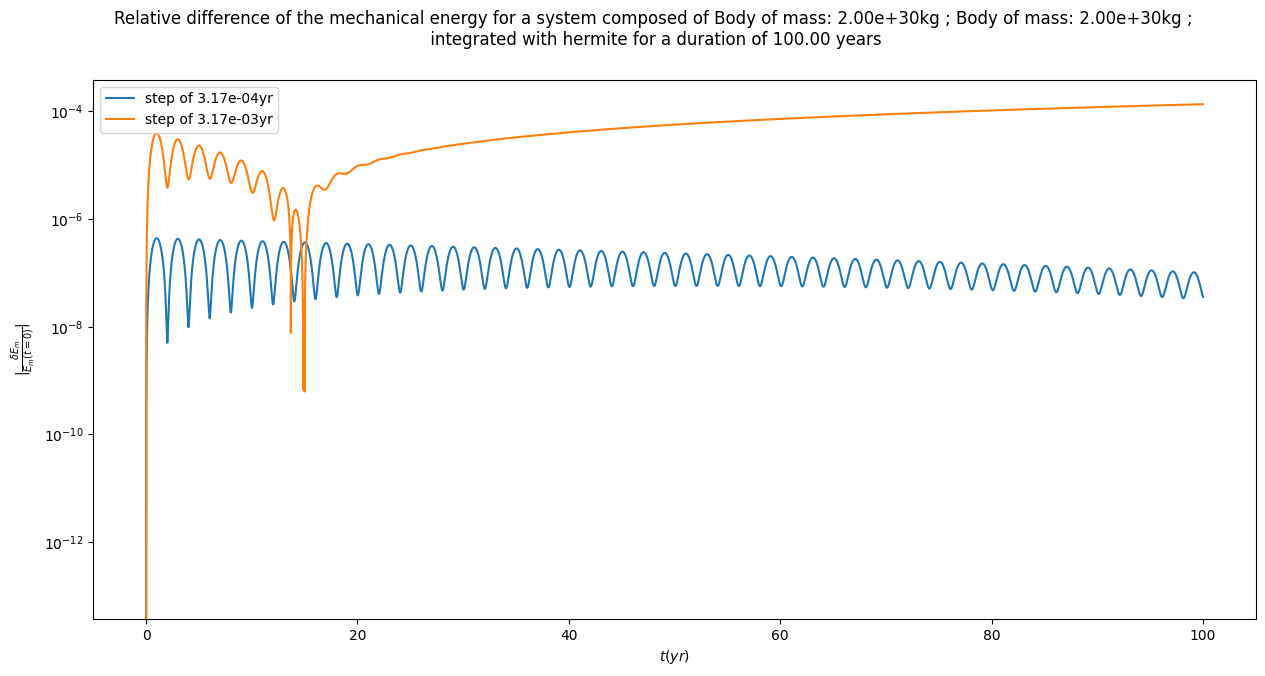
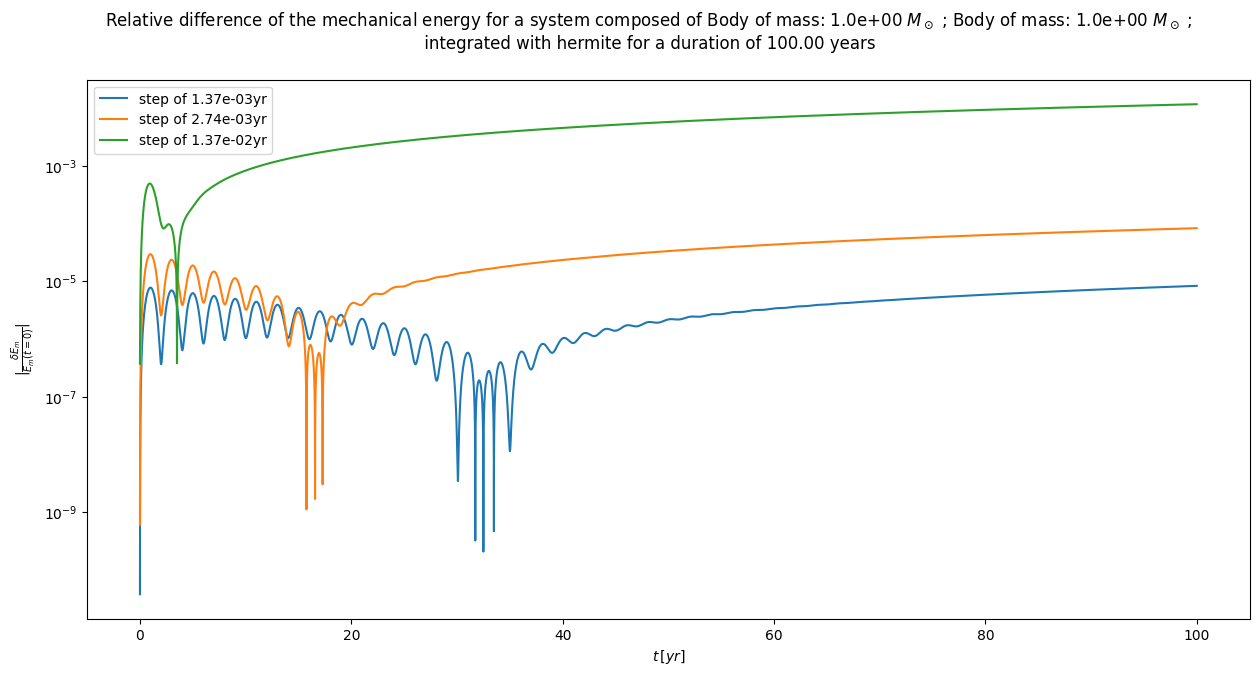
debugg hermite and force use of longdouble type

diff --git a/lib/hermite.py b/lib/hermite.py
@@ -13,23 +13,23 @@ from lib.units import *
 
 def Update_a(dyn_syst):  # update acceleration of bodies in system
     for body in dyn_syst.bodylist:
-        body.a = np.zeros(3)
+        body.a = np.zeros(3,dtype=np.longdouble)
         for otherbody in dyn_syst.bodylist:
             if body != otherbody:
                 rij = np.linalg.norm(body.q - otherbody.q)
-                body.a = body.a - (body.q - otherbody.q) * G * otherbody.m / (rij ** 3)
+                body.a = body.a - (body.q - otherbody.q) * Ga * otherbody.m / (rij ** 3)
 
 
 def Update_j(dyn_syst):  # update jerk of bodies in system
     for body in dyn_syst.bodylist:
-        body.j = np.zeros(3)
+        body.j = np.zeros(3,dtype=np.longdouble)
         for otherbody in dyn_syst.bodylist:
             if body != otherbody:
                 rij = np.linalg.norm(body.q - otherbody.q)
                 deltav = (body.v - otherbody.v)
                 deltar = (body.q - otherbody.q)
                 vr = deltav + 3. * deltar * np.inner(deltav, deltar) / (rij ** 2)
-                body.j = body.j - G * otherbody.m / (rij ** 3) * vr
+                body.j = body.j - Ga * otherbody.m / (rij ** 3) * vr
 
 
 def Predict(dyn_syst, dt):  # update predicted position and velocities of bodies in system
@@ -40,23 +40,23 @@ def Predict(dyn_syst, dt):  # update predicted position and velocities of bodies
 
 def Update_ap(dyn_syst):  # update acceleration of bodies in system
     for body in dyn_syst.bodylist:
-        body.ap = np.zeros(3)
+        body.ap = np.zeros(3,dtype=np.longdouble)
         for otherbody in dyn_syst.bodylist:
             if body != otherbody:
                 rij = np.linalg.norm(body.qp - otherbody.qp)
-                body.ap = body.ap - (body.qp - otherbody.qp) * G * otherbody.m / (rij ** 3)
+                body.ap = body.ap - (body.qp - otherbody.qp) * Ga * otherbody.m / (rij ** 3)
 
 
 def Update_jp(dyn_syst):  # update jerk of bodies in system
     for body in dyn_syst.bodylist:
-        body.jp = np.zeros(3)
+        body.jp = np.zeros(3,dtype=np.longdouble)
         for otherbody in dyn_syst.bodylist:
             if body != otherbody:
                 rij = np.linalg.norm(body.qp - otherbody.qp)
                 deltav = (body.vp - otherbody.vp)
                 deltar = (body.qp - otherbody.qp)
                 vr = deltav + 3. * deltar * np.inner(deltav, deltar) / (rij ** 2)
-                body.jp = body.jp - G * otherbody.m / (rij ** 3) * vr
+                body.jp = body.jp - Ga * otherbody.m / (rij ** 3) * vr
 
 
 def Correct(dyn_syst, dt):  # correct position and velocities of bodies in system
@@ -69,7 +69,7 @@ def Correct(dyn_syst, dt):  # correct position and velocities of bodies in syste
 
 
 def HPC(dyn_syst, dt):  # update position and velocities of bodies in system with hermite predictor corrector
-    COMShift(dyn_syst)
+    dyn_syst.COMShift()
     Update_a(dyn_syst)
     Update_j(dyn_syst)
     Predict(dyn_syst, dt)
@@ -79,7 +79,7 @@ def HPC(dyn_syst, dt):  # update position and velocities of bodies in system wit
     dyn_syst.time = dyn_syst.time + dt
 
 
-def hermite(dyn_syst, duration, dt, recover_param=False, display=False, savename=None):
+def hermite(dyn_syst, bin_syst, duration, dt, recover_param=False, display=False, savename=None):
     if display:
         try:
             system("mkdir tmp")
@@ -89,10 +89,10 @@ def hermite(dyn_syst, duration, dt, recover_param=False, display=False, savename
         d.launch(dyn_syst.blackstyle)
 
     N = np.ceil(duration / dt).astype(int)
-    E = np.zeros(N)
-    L = np.zeros((N, 3))
-    sma = np.zeros(N)
-    ecc = np.zeros(N)
+    E = np.zeros(N,dtype=np.longdouble)
+    L = np.zeros((N, 3),dtype=np.longdouble)
+    sma = np.zeros(N,dtype=np.longdouble)
+    ecc = np.zeros(N,dtype=np.longdouble)
 
     for j in range(N):
         HPC(dyn_syst, dt)
@@ -105,9 +105,9 @@ def hermite(dyn_syst, duration, dt, recover_param=False, display=False, savename
         if display and j % 10 == 0:
             # display progression
             if len(dyn_syst.bodylist) == 1:
-                d.on_running(dyn_syst, step=j, label="step {0:d}/{1:d}".format(j, N))
+                d.on_running(dyn_syst, step=j, label="{0:.2f} yearq".format(j*dt))
             else:
-                d.on_running(dyn_syst, step=j, label="step {0:d}/{1:d}".format(j, N))
+                d.on_running(dyn_syst, step=j, label="{0:.2f} years".format(j*dt))
     if display:
         d.close()
         if not savename is None:

diff --git a/lib/objects.py b/lib/objects.py
@@ -14,12 +14,12 @@ class Body:
         self.m = mass
         self.q = position
         self.v = velocity
-        self.a = np.zeros(3)
-        self.ap = np.zeros(3)
-        self.j = np.zeros(3)
-        self.jp = np.zeros(3)
-        self.qp = np.zeros(3)
-        self.vp = np.zeros(3)
+        self.a = np.zeros(3,dtype=np.longdouble)
+        self.ap = np.zeros(3,dtype=np.longdouble)
+        self.j = np.zeros(3,dtype=np.longdouble)
+        self.jp = np.zeros(3,dtype=np.longdouble)
+        self.qp = np.zeros(3,dtype=np.longdouble)
+        self.vp = np.zeros(3,dtype=np.longdouble)
 
     def __repr__(self): # Called upon "print(body)"
         return r"Body of mass: {0:.1e} $M_\odot$, position: {1}, velocity: {2}".format(self.m, self.q, self.v)
@@ -51,27 +51,27 @@ class System(Body):
 
     @property
     def get_masses(self): #return the masses of each object
-        return np.array([body.m for body in self.bodylist])
+        return np.array([body.m for body in self.bodylist],dtype=np.longdouble)
     
     @property
     def get_positions(self): #return the positions of the bodies
-        xdata = np.array([body.q[0] for body in self.bodylist])
-        ydata = np.array([body.q[1] for body in self.bodylist])
-        zdata = np.array([body.q[2] for body in self.bodylist])
+        xdata = np.array([body.q[0] for body in self.bodylist],dtype=np.longdouble)
+        ydata = np.array([body.q[1] for body in self.bodylist],dtype=np.longdouble)
+        zdata = np.array([body.q[2] for body in self.bodylist],dtype=np.longdouble)
         return xdata, ydata, zdata
     
     @property
     def get_velocities(self): #return the positions of the bodies
-        vxdata = np.array([body.v[0] for body in self.bodylist])
-        vydata = np.array([body.v[1] for body in self.bodylist])
-        vzdata = np.array([body.v[2] for body in self.bodylist])
+        vxdata = np.array([body.v[0] for body in self.bodylist],dtype=np.longdouble)
+        vydata = np.array([body.v[1] for body in self.bodylist],dtype=np.longdouble)
+        vzdata = np.array([body.v[2] for body in self.bodylist],dtype=np.longdouble)
         return vxdata, vydata, vzdata
     
     @property
     def get_momenta(self): #return the momenta of the bodies
-        pxdata = np.array([body.p[0] for body in self.bodylist])
-        pydata = np.array([body.p[1] for body in self.bodylist])
-        pzdata = np.array([body.p[2] for body in self.bodylist])
+        pxdata = np.array([body.p[0] for body in self.bodylist],dtype=np.longdouble)
+        pydata = np.array([body.p[1] for body in self.bodylist],dtype=np.longdouble)
+        pzdata = np.array([body.p[2] for body in self.bodylist],dtype=np.longdouble)
         return pxdata, pydata, pzdata
 
     @property
@@ -91,7 +91,7 @@ class System(Body):
 
     @property
     def COM(self): #return center of mass in cartesian np_array
-        coord = np.zeros(3)
+        coord = np.zeros(3,dtype=np.longdouble)
         for body in self.bodylist:
             coord = coord + body.m*body.q
         coord = coord/self.M
@@ -99,7 +99,7 @@ class System(Body):
 
     @property
     def COMV(self): #return center of mass velocity in cartesian np_array
-        coord = np.zeros(3)
+        coord = np.zeros(3,dtype=np.longdouble)
         for body in self.bodylist:
             coord = coord + body.m*body.v
         coord = coord/self.M
@@ -112,7 +112,7 @@ class System(Body):
 
     @property
     def LCOM(self): #return angular momentum of the center of mass
-        LCOM = np.zeros(3)
+        LCOM = np.zeros(3,dtype=np.longdouble)
         dr = self.bodylist[0].m/self.mu*self.bodylist[0].q
         dv = self.bodylist[0].m/self.mu*self.bodylist[0].v
         LCOM = self.mu*np.cross(dr,dv)
@@ -127,7 +127,7 @@ class System(Body):
 
     @property
     def L(self): #return angular momentum of bodies in system
-        L = np.zeros(3)
+        L = np.zeros(3,dtype=np.longdouble)
         for body in self.bodylist:
             L = L + np.cross(body.q,body.p)
         return L

diff --git a/main.py b/main.py
@@ -11,28 +11,28 @@ from lib.units import *
 
 def main():
     #initialisation
-    m = np.array([1., 1., 1e-5])*Ms/Ms  # Masses in Solar mass
-    a = np.array([1., 1., 5.])*au/au   # Semi-major axis in astronomical units
-    e = np.array([0., 0., 1./4.])   # Eccentricity
-    psi = np.array([0., 0., 0.])*np.pi/180.    # Inclination of the orbital plane in degrees
+    m = np.array([1., 1., 1e-1],dtype=np.longdouble)*Ms/Ms  # Masses in Solar mass
+    a = np.array([1., 1., 5.],dtype=np.longdouble)*au/au   # Semi-major axis in astronomical units
+    e = np.array([0., 0., 0.],dtype=np.longdouble)   # Eccentricity
+    psi = np.array([0., 0., 0.],dtype=np.longdouble)*np.pi/180.    # Inclination of the orbital plane in degrees
 
-    x1 = np.array([0., -1., 0.])*a[0]*(1.+e[0])
-    x2 = np.array([0., 1., 0.])*a[1]*(1.+e[1])
-    x3 = np.array([np.cos(psi[2]), 0., np.sin(psi[2])])*a[2]*(1.+e[2])
-    q = np.array([x1, x2, x3])
+    x1 = np.array([0., -1., 0.],dtype=np.longdouble)*a[0]*(1.+e[0])
+    x2 = np.array([0., 1., 0.],dtype=np.longdouble)*a[1]*(1.+e[1])
+    x3 = np.array([np.cos(psi[2]), 0., np.sin(psi[2])],dtype=np.longdouble)*a[2]*(1.+e[2])
+    q = np.array([x1, x2, x3],dtype=np.longdouble)
 
-    v1 = np.array([np.sqrt(Ga*m[0]*m[1]/((m[0]+m[1])*np.sqrt(np.sum((q[0]-q[1])**2)))), 0., 0.])
-    v2 = np.array([-np.sqrt(Ga*m[0]*m[1]/((m[0]+m[1])*np.sqrt(np.sum((q[0]-q[1])**2)))), 0., 0.])
-    v3 = np.array([0., np.sqrt(Ga*(m[0]+m[1])*(2./np.sqrt(np.sum(q[2]**2))-1./a[2])), 0.])
-    v = np.array([v1, v2, v3])
+    v1 = np.array([np.sqrt(Ga*m[0]*m[1]/((m[0]+m[1])*np.sqrt(np.sum((q[0]-q[1])**2)))), 0., 0.],dtype=np.longdouble)
+    v2 = np.array([-np.sqrt(Ga*m[0]*m[1]/((m[0]+m[1])*np.sqrt(np.sum((q[0]-q[1])**2)))), 0., 0.],dtype=np.longdouble)
+    v3 = np.array([0., np.sqrt(Ga*(m[0]+m[1])*(2./np.sqrt(np.sum(q[2]**2))-1./a[2])), 0.],dtype=np.longdouble)
+    v = np.array([v1, v2, v3],dtype=np.longdouble)
 
     #integration parameters
-    duration, step = 100*yr/yr, np.array([1./(365.25*2.), 1./(365.25*1.), 5./(365.25*1.)])*yr/yr #integration time and step in years
-    step = np.sort(step)
-    integrator = "leapfrog"
+    duration, step = 100*yr/yr, np.array([1./(365.25*2.), 1./(365.25*1.), 5./(365.25*1.)],dtype=np.longdouble)*yr/yr #integration time and step in years
+    step = np.sort(step)[::-1]
+    integrator = "hermite"
     n_bodies = 3
     display = False
-    savename = "{0:d}bodies_mass_{1:s}".format(n_bodies, integrator)
+    savename = "{0:d}bodies_{1:s}".format(n_bodies, integrator)
 
     #simulation start
     E, L = [], []

diff --git a/lib/LeapFrog.py b/lib/LeapFrog.py
@@ -18,7 +18,7 @@ def Drift(dyn_syst, dt):
 
 def Kick(dyn_syst, dt):
     for body in dyn_syst.bodylist:
-        body.a = np.zeros(3)
+        body.a = np.zeros(3,dtype=np.longdouble)
         for otherbody in dyn_syst.bodylist:
             if body != otherbody:
                 rij = np.linalg.norm(body.q - otherbody.q)
@@ -43,10 +43,10 @@ def leapfrog(dyn_syst, bin_syst, duration, dt, recover_param=False, display=Fals
         d.launch(dyn_syst.blackstyle)
 
     N = np.ceil(duration / dt).astype(int)
-    E = np.zeros(N)
-    L = np.zeros((N, 3))
-    sma = np.zeros(N)
-    ecc = np.zeros(N)
+    E = np.zeros(N,dtype=np.longdouble)
+    L = np.zeros((N, 3),dtype=np.longdouble)
+    sma = np.zeros(N,dtype=np.longdouble)
+    ecc = np.zeros(N,dtype=np.longdouble)
     for j in range(N):
         LP(dyn_syst,dt)
 
@@ -58,9 +58,9 @@ def leapfrog(dyn_syst, bin_syst, duration, dt, recover_param=False, display=Fals
         if display and j % 10 == 0:
             # display progression
             if len(dyn_syst.bodylist) == 1:
-                d.on_running(dyn_syst, step=j, label="step {0:d}/{1:d}".format(j, N))
+                d.on_running(dyn_syst, step=j, label="{0:.2f} years".format(j*dt))
             else:
-                d.on_running(dyn_syst, step=j, label="step {0:d}/{1:d}".format(j, N))
+                d.on_running(dyn_syst, step=j, label="{0:.2f} years".format(j*dt))
     if display:
         d.close()
         if not savename is None:

diff --git a/lib/plots.py b/lib/plots.py
@@ -115,7 +115,7 @@ def display_parameters(E,L,sma,ecc,parameters,savename=""):
     fig1 = plt.figure(figsize=(15,7))
     ax1 = fig1.add_subplot(111)
     for i in range(len(E)):
-        ax1.plot(np.arange(E[i].shape[0])*step[i], np.abs((E[i]-E[i][0])/E[i][0]), label="step of {0:.2e}yr".format(step[i]))
+        ax1.plot(np.arange(E[i].shape[0]-1)*step[i], np.abs((E[i][1:]-E[i][0])/E[i][0]), label="step of {0:.2e}yr".format(step[i]))
     ax1.set(xlabel=r"$t \, [yr]$", ylabel=r"$\left|\frac{\delta E_m}{E_m(t=0)}\right|$", yscale='log')
     ax1.legend()
     fig1.suptitle(title1.format("mechanical energy")+title2)
@@ -126,7 +126,7 @@ def display_parameters(E,L,sma,ecc,parameters,savename=""):
     for i in range(len(L)):
         dL = ((L[i]-L[i][0])/L[i][0])
         dL[np.isnan(dL)] = 0.
-        ax2.plot(np.arange(L[i].shape[0])*step[i], np.abs(np.sum(dL,axis=1)), label="step of {0:.2e}yr".format(step[i]))
+        ax2.plot(np.arange(L[i].shape[0]-1)*step[i], np.abs(np.sum(dL[1:],axis=1)), label="step of {0:.2e}yr".format(step[i]))
     ax2.set(xlabel=r"$t \, [yr]$", ylabel=r"$\left|\frac{\delta \vec{L}}{\vec{L}(t=0)}\right|$",yscale='log')
     ax2.legend()
     fig2.suptitle(title1.format("kinetic moment")+title2)

diff --git a/lib/units.py b/lib/units.py
@@ -8,4 +8,4 @@ globals()['G'] = 6.67e-11 #Gravitational constant in SI units
 globals()['Ms'] = 2e30 #Solar mass in kg
 globals()['au'] = 1.5e11 #Astronomical unit in m
 globals()['yr'] = 3.15576e7 #year in seconds
-globals()['Ga'] = G*Ms*yr**2/au**3 #Gravitational constant adimensionned
+globals()['Ga'] = G*Ms*yr**2/au**3 #Gravitational constant dimensionless
